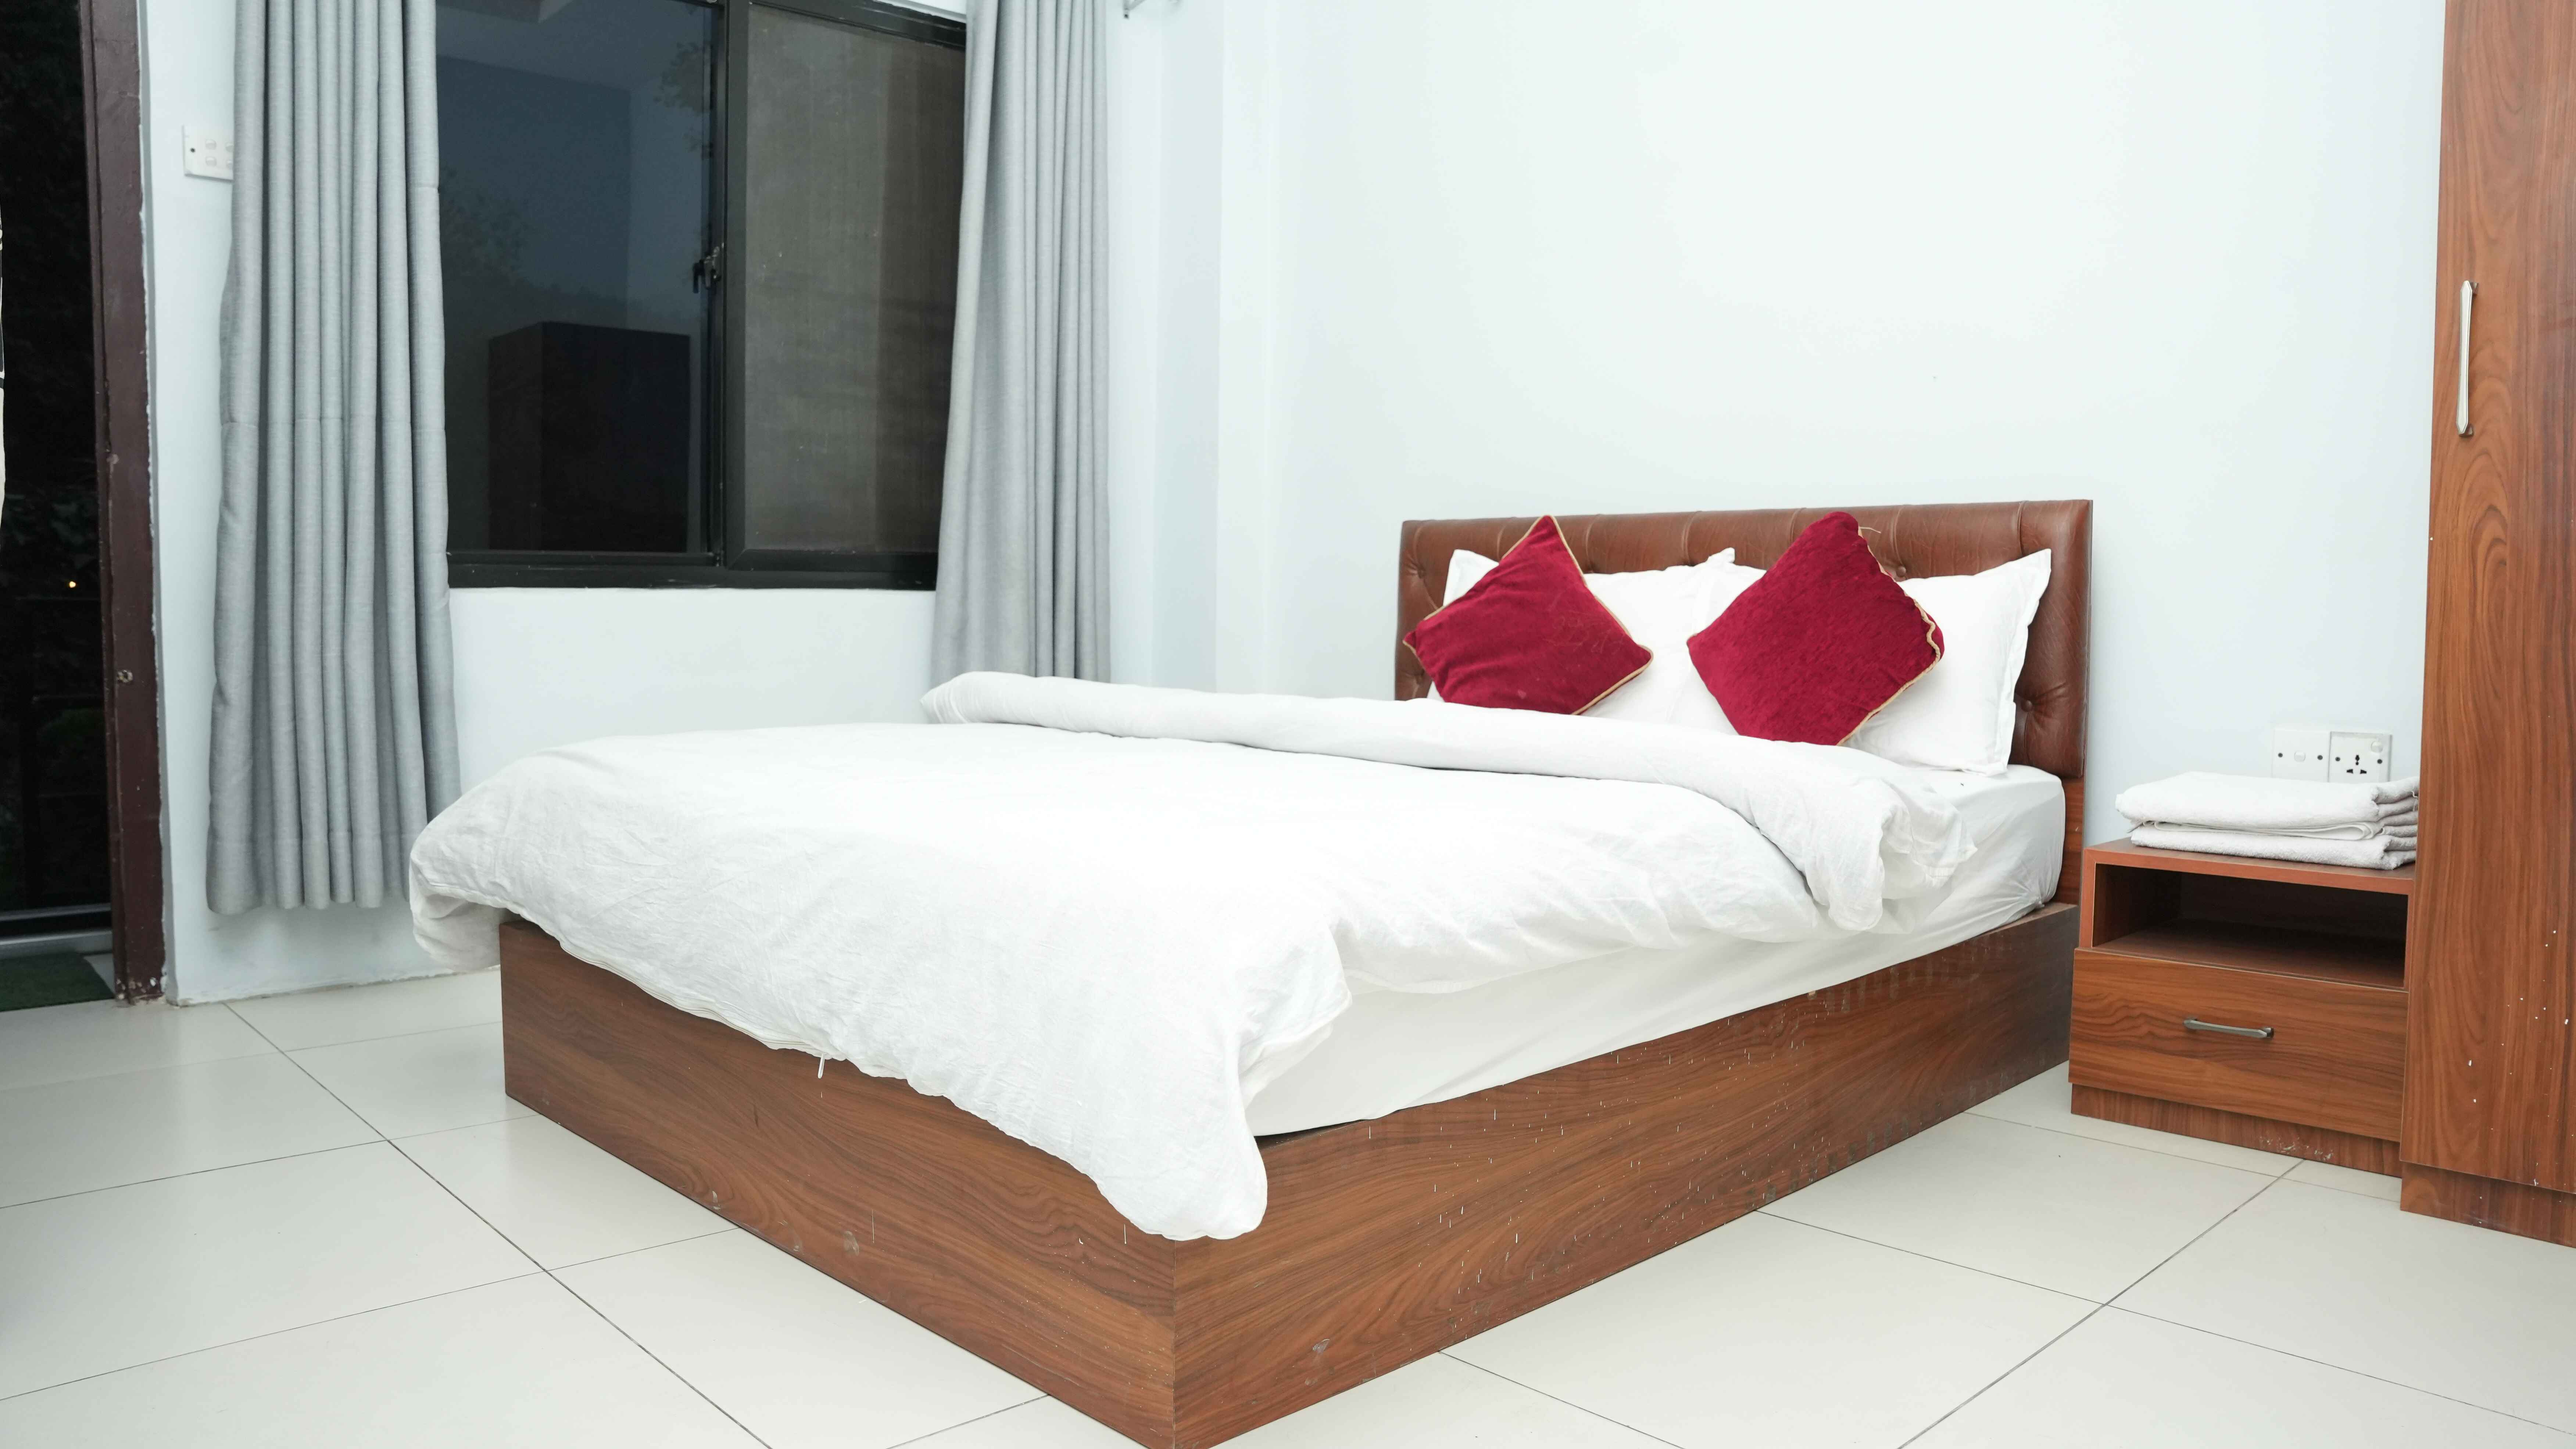
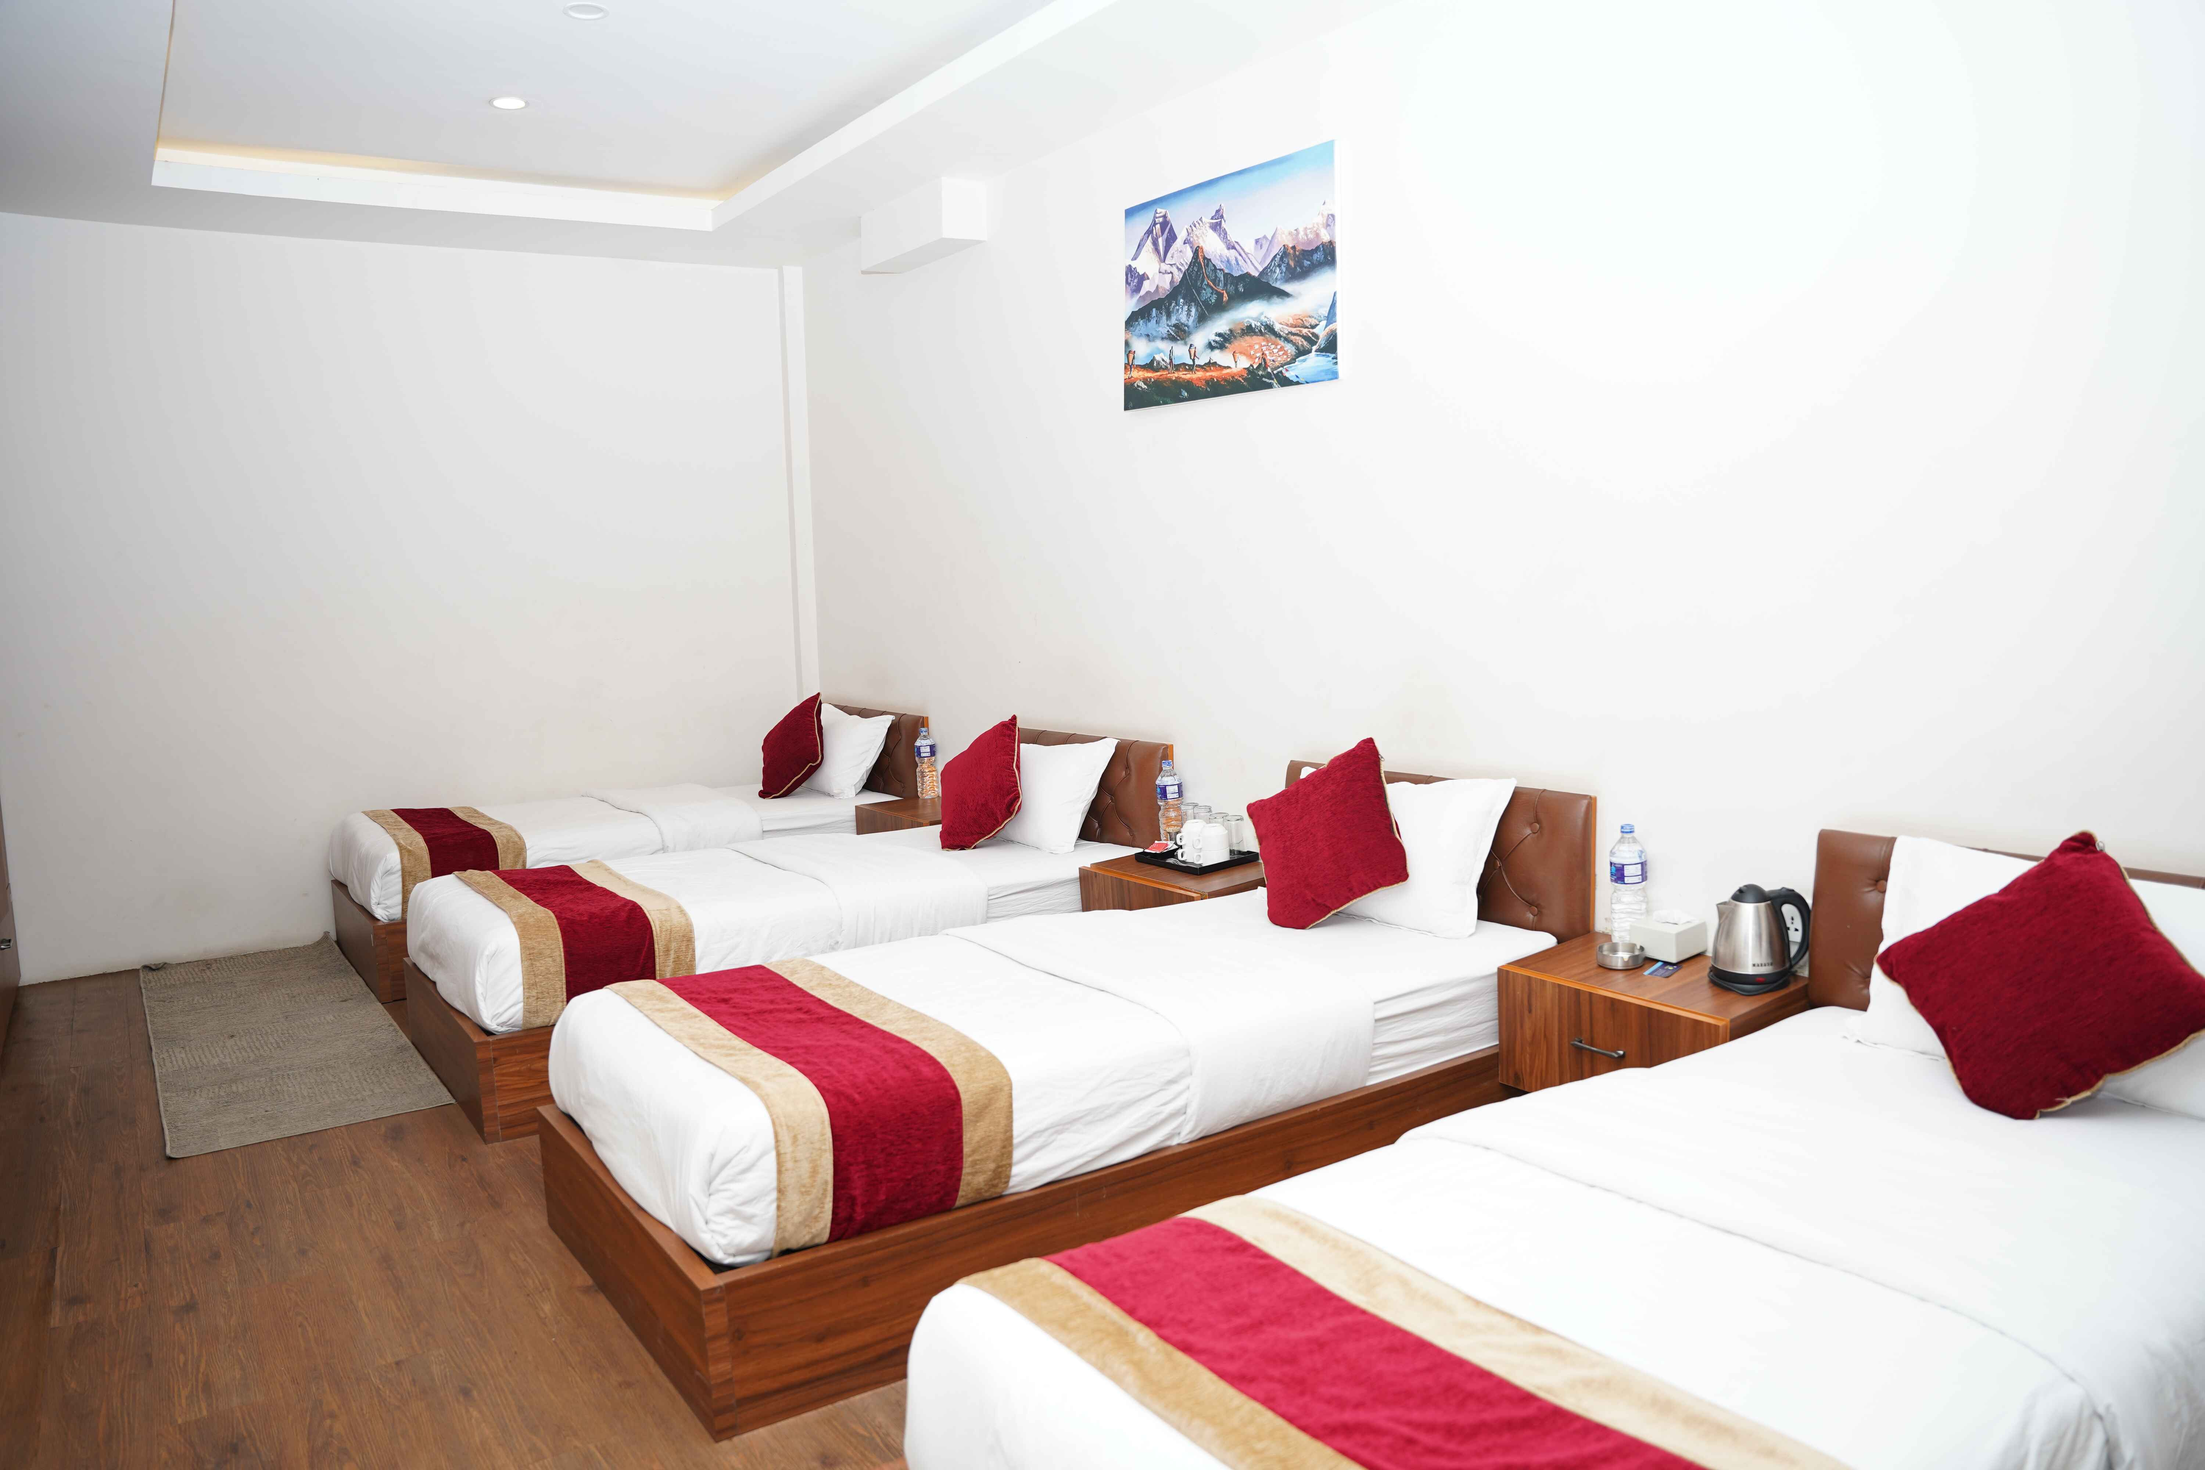
design changes

diff --git a/assets/css/theme.css b/assets/css/theme.css
@@ -703,7 +703,7 @@ a:hover {
   margin-bottom: 10px;
 }
 .blog-section .blog-item .bi-text h4 a {
-  color: inherit;
+  color: white;
   text-decoration: none;
 }
 .blog-section .blog-item .bi-text h4 a:hover {
@@ -861,6 +861,7 @@ a:hover {
   }
 }
 .cat-section {
+  background-color: rgba(154, 146, 93, 0.05);
   margin-top: 5rem;
   width: 100%;
   display: block;

diff --git a/assets/css/scss/_blog-page.scss b/assets/css/scss/_blog-page.scss
@@ -47,9 +47,8 @@
         margin-bottom: 10px;
 
         a {
-          color: inherit;
+          color: white;
           text-decoration: none;
-
           &:hover {
             text-decoration: underline;
           }

diff --git a/assets/css/scss/_calltoaction.scss b/assets/css/scss/_calltoaction.scss
@@ -1,5 +1,5 @@
 .cat-section {
-  // background-color: rgba(154, 146, 93, 0.05);
+  background-color: rgba(154, 146, 93, 0.05);
   margin-top: 5rem;
   width: 100%;
   display: block;

diff --git a/functions.php b/functions.php
@@ -304,7 +304,7 @@ function video_post() {
 		wp_enqueue_style( 'slicknav', $theme_uri . '/assets/vendor/css/slicknav.css' );
 		wp_enqueue_style( 'bootstrap_icons', 'https://cdn.jsdelivr.net/npm/bootstrap-icons@1.11.3/font/bootstrap-icons.min.css' );
 		wp_enqueue_style( 'styles', $theme_uri . '/assets/vendor/css/style.css', array(), '0.9.9' );
-		wp_enqueue_style( 'kurintarretreat_css', $theme_uri . '/assets/css/theme.css', array(), '0.4.9' );
+		wp_enqueue_style( 'kurintarretreat_css', $theme_uri . '/assets/css/theme.css', array(), '0.7.4' );
 		//lity code
 		wp_enqueue_style('lity-css', 'https://cdnjs.cloudflare.com/ajax/libs/lity/2.4.1/lity.min.css');
 	
